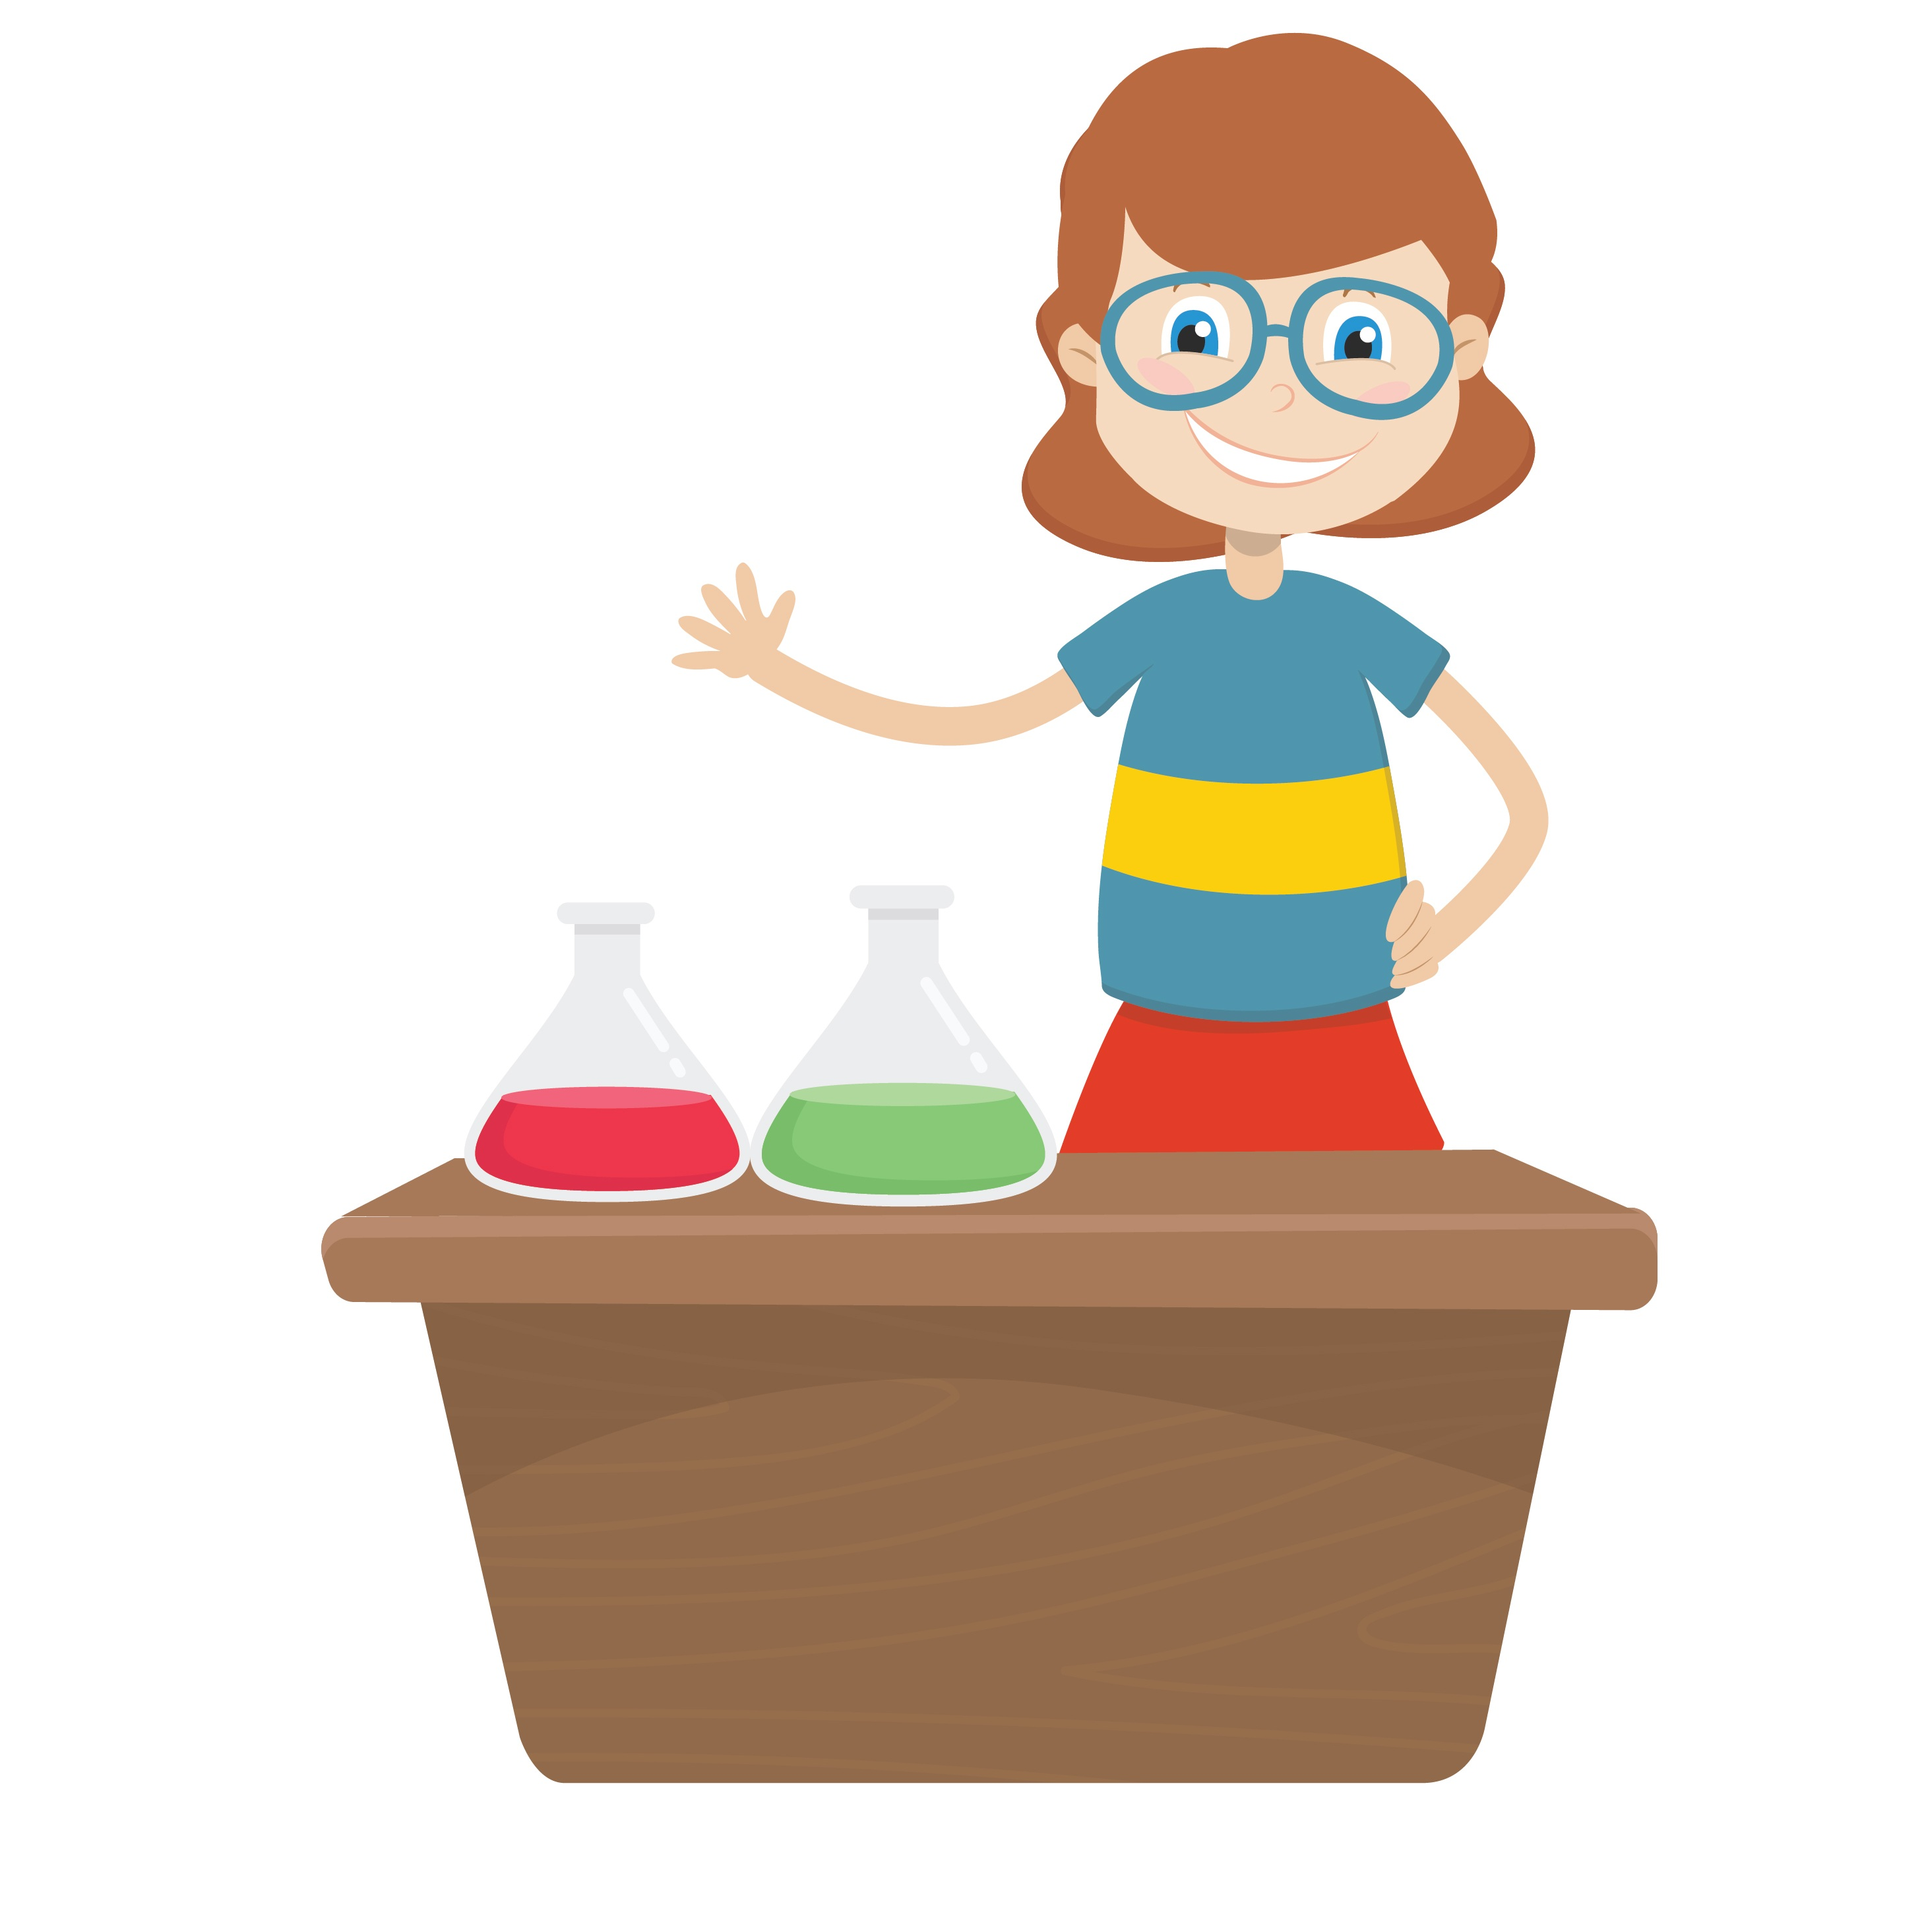
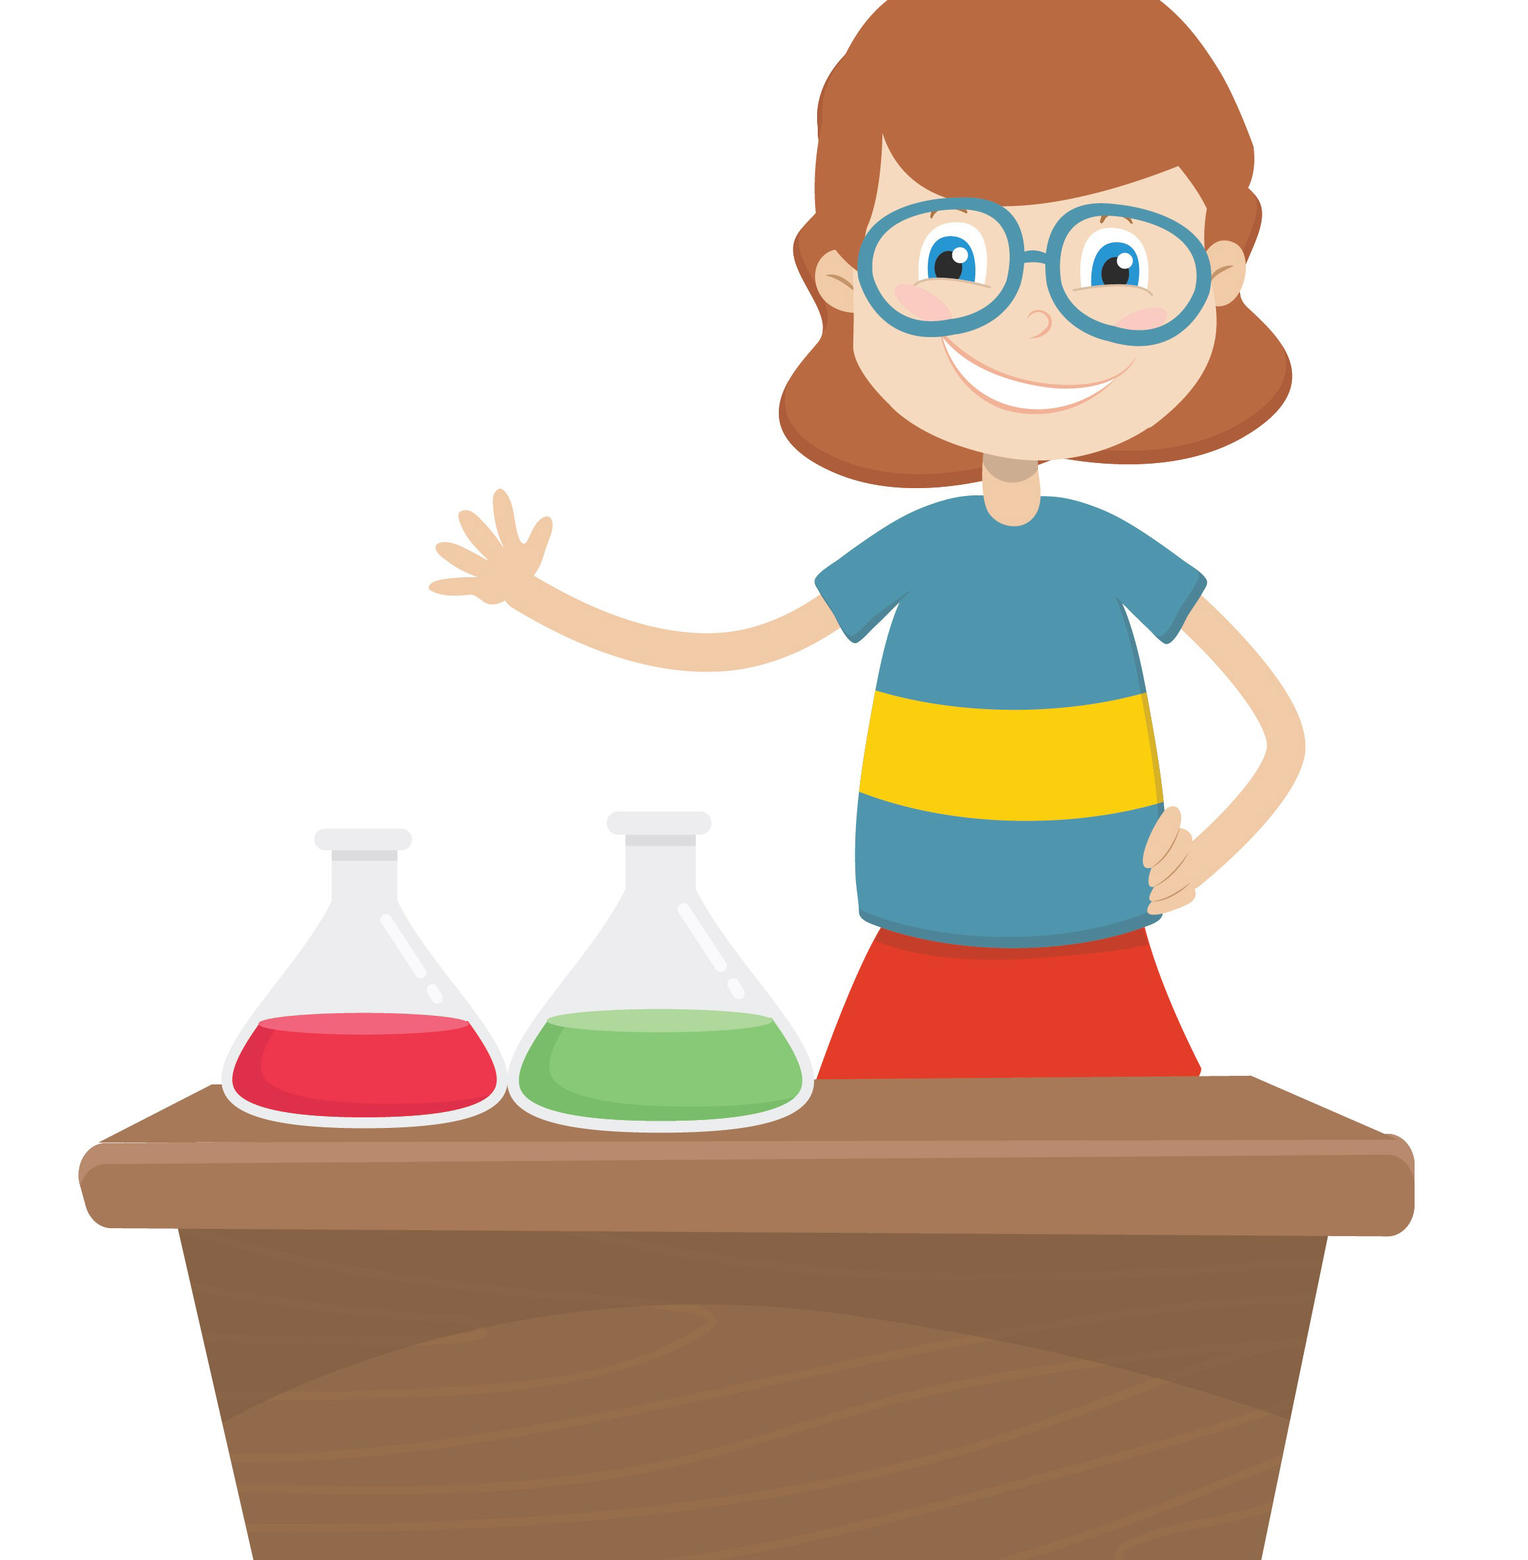
added visit page, working on small screen

diff --git a/visit.html b/visit.html
@@ -1,0 +1,130 @@
+<!DOCTYPE html>
+<html lang="en">
+
+<head>
+    <meta charset="UTF-8">
+    <meta http-equiv="X-UA-Compatible" content="IE=edge">
+    <meta name="viewport" content="width=device-width, initial-scale=1.0">
+    <title>Community Science Museum | Home</title>
+    <link rel="preconnect" href="https://fonts.googleapis.com">
+    <link rel="preconnect" href="https://fonts.gstatic.com" crossorigin>
+    <link
+        href="https://fonts.googleapis.com/css2?family=Inter:wght@400;900&family=Nanum+Pen+Script&family=Oswald:wght@400;500;600;700&family=Poppins:wght@300;400;500;600;700&family=Sedgwick+Ave&family=Source+Sans+Pro:wght@400;600;700&family=Ubuntu:ital,wght@0,300;0,400;0,500;1,400&display=swap"
+        rel="stylesheet">
+    <link href="style.css" rel="stylesheet" />
+    <script defer src="https://kit.fontawesome.com/94f62694c8.js" crossorigin="anonymous"></script>
+</head>
+<header>
+    <div class="top_header"><a href="index.html">community science museum</a>
+        <a href="#" class="tickets">tickets</a>
+    </div>
+    <div class="Bottom_header">
+        <a href="#" class="bottom_header_tickets">tickets</a>
+        <label for="hamburger-menu" class="hamburgerbars"><i class="fas fa-bars" class="hamburgerbars"></i></label>
+        <input type="checkbox" id="hamburger-menu" />
+        <nav>
+            <ul>
+                <li><a href="index.html">home</a></li>
+                <li><a href="#">exhibitions</a></li>
+                <li><a href="#">about</a></li>
+                <li><a href="#">support</a></li>
+                <li><a href="visit.html" class="active">visit</a></li>
+                <li><input type="search" id="site-search" placeholder="search" name="search">
+                </li>
+            </ul>
+        </nav>
+    </div>
+</header>
+
+<body>
+    <h1>visit community
+        science museum</h1>
+
+    <div>
+        <h2>admission</h2>
+        <p>the entrance is free for all.
+            there are guided tours of the museum that leave every hour. these tours are 70 NOK per person and include a
+            handy printed guide of the museum.
+            if you would like to organise a guided tour for your group of 6 or more people, please contact us to arrange
+            the
+            tour.
+        </p>
+        <a href="#" class="cta_button">contact</a>
+    </div>
+    <div>
+        <h2>hours</h2>
+        <p>monday: closed</p>
+        <p>tuesday: 10:00 – 16:00</p>
+        <p>wednesday: 10:00 – 16:00</p>
+        <p>thursday: 10:00 – 16:00</p>
+        <p>friday: 10:00 – 19:00</p>
+        <p>saturday: 9:00 – 16:00</p>
+        <p>Sunday: 9:00 – 13:00</p>
+    </div>
+
+    <div>
+        <h2>location</h2>
+        <p>The museum is located at Aker Brygge, Bryggeporten 2.
+            1344 Oslo.</p>
+        <a href="#" class="cta_button">view map</a>
+    </div>
+    <div>
+        <h2>accessibility</h2>
+        <p>the museum has wheelchair accessibility ramps. it also has audio guides and braille display signs for
+            the visually impaired.</p>
+    </div>
+    <h2>food and drinks</h2>
+
+    <p>there is a café attached to the museum where you can get light lunches, soft drinks, coffee, snacks and more.</p>
+    <a href="#" class="cta_button">view menu</a>
+    </div>
+    <div>
+
+        <h2>shop</h2>
+        <p>our shop offers a range of memorabilia from the museum as well as
+            great gifts and activity packs that allow you to continue
+            to explore science even after you’ve left the museum.
+        </p>
+        <a href="#" class="cta_button">go to shop</a>
+    </div>
+    </div>
+    <main>
+
+    </main>
+    <footer>
+        <section class="footer_top_bar">
+            <a href="#" class="">
+                <h2 class="Footer_top_bar_header">home to top </h2>
+            </a>
+        </section>
+        <section class="footer_content">
+            <div class="footer_section_one">
+                <h2>follow us on social media</h2>
+                <a href=" #" class="facebook"><i class="fab fa-facebook-square"></i></a>
+                <a href="#" class="twitter"><i class="fab fa-twitter-square"></i></a>
+                <a href="#" class="youtube"><i class="fab fa-youtube-square"></i></a>
+                <a href="#" class="linkdin"><i class="fab fa-linkedin"></i></a>
+                <h3>get our newsletter</h3>
+                <a href="#" class="cta_button">newsletter</a>
+            </div>
+            <div class="footer_section_two">
+                <h2>contact</h2>
+                <p><a href=" #" class="sponsors">mail: mail@csm</a></p>
+                <p><a href="#" class="sponsors">phone: 87654321</a></p>
+                <p>adress: bryggeporten 2</p>
+                <p>1344 oslo.</p>
+            </div>
+            <div class="footer_section_three">
+                <h3>sponsors and partners</h3>
+                <p>thanks to sponsors and partners</p>
+                <a href=" #" class="sponsors">green energy</a>
+                <a href=" #" class="sponsors">noroil</a>
+                <a href=" #" class="sponsors">tec inc</a>
+                <a href=" #" class="sponsors">horizon ltd</a>
+            </div>
+
+        </section>
+    </footer>
+</body>
+
+</html>

diff --git a/index.html b/index.html
@@ -5,7 +5,7 @@
     <meta charset="UTF-8">
     <meta http-equiv="X-UA-Compatible" content="IE=edge">
     <meta name="viewport" content="width=device-width, initial-scale=1.0">
-    <title>Community Science Museum | Home</title>
+    <title>Community Science Museum | visit</title>
     <link rel="preconnect" href="https://fonts.googleapis.com">
     <link rel="preconnect" href="https://fonts.gstatic.com" crossorigin>
     <link
@@ -28,13 +28,15 @@
                 <li><a href="#">exhibitions</a></li>
                 <li><a href="#">about</a></li>
                 <li><a href="#">support</a></li>
-                <li><a href="#">visit</a></li>
+                <li><a href="visit.html">visit</a></li>
                 <li><input type="search" id="site-search" placeholder="search" name="search">
                 </li>
             </ul>
         </nav>
     </div>
 </header>
+<h1>visit community
+    science museum</h1>
 
 <body>
     <main>
@@ -59,7 +61,7 @@
                     1500 pictures from 430 artist showing their art.</p>
             </div>
             <div class="home_grid_item">
-                <img src="image/reading-2762010_1280.jpg" class="Child_reading" alt="child reading a book">
+                <img src="image/reading-2762010_1280_v2.jpg" class="Child_reading" alt="child reading a book">
                 <h2>for kids</h2>
                 <p>Are you a young person looking to learn more about science? Come on down to our museum, there’s
                     plenty to
@@ -79,7 +81,7 @@
                 <a href="#" class="cta_button">message</a>
             </div>
             <div class="home_grid_item">
-                <img src="image/teacher-2816112.jpg" class="teacher_greating"
+                <img src="image/teacher-2816112_3.jpg" class="teacher_greating"
                     alt="cartoon woman with glasses greating. She has 2 botles of chemestry flask on a desk">
                 <h2>for teachers</h2>
                 <p class="paragraph_margin_bottom_before_cta">As a community-driven museum, we want to work with schools
@@ -90,7 +92,7 @@
                 <a href="#" class="cta_button">tour</a>
             </div>
             <div class="home_grid_item">
-                <img src="image/people-219985_1280.jpg" class="looking_in_a_microscope"
+                <img src="image/people-219985_1280_same_size.jpg" class="looking_in_a_microscope"
                     alt="a man is looking in a microscope">
                 <h2>researchers</h2>
                 <p>In our ecology section of the museum, we unpack the dangers we currently face including global
@@ -131,10 +133,9 @@
             </div>
             <div class="footer_section_two">
                 <h2>contact</h2>
-                <p><a href=" #">mail: mail@csm</a></p>
-                <p class="phone"><a href="#">phone: 87654321</a></p>
-                <p>adress:</p>
-                <p>bryggeporten 2</p>
+                <p><a href=" #" class="sponsors">mail: mail@csm</a></p>
+                <p><a href="#" class="sponsors">phone: 87654321</a></p>
+                <p>adress: bryggeporten 2</p>
                 <p>1344 oslo.</p>
             </div>
             <div class="footer_section_three">

diff --git a/style.css b/style.css
@@ -15,6 +15,10 @@ p {
     margin-bottom: 10px;
 }
 
+p::first-letter {
+    text-transform: uppercase;
+}
+
 a {
     color: black;
     text-decoration: none;
@@ -152,7 +156,7 @@ nav li {
 /* Home page*/
 
 .home_grid_container {
-    /*grid-template-columns: repeat(3, 1fr);*/
+    /*grid-template-columns: repeat(2, 1fr);*/
     gap: 1.5rem;
     padding: 10px;
     margin: auto;
@@ -160,7 +164,9 @@ nav li {
     display: grid;
 }
 
-
+.home_grid_item img {
+    text-align: center;
+}
 
 .home_grid_item:nth-child(2),
 .home_grid_item:nth-child(3),
@@ -190,8 +196,9 @@ nav li {
 .holding_a_plant {
     margin-bottom: 15px;
     width: 100%;
-    max-height: 200px;
+    max-height: 300px;
     object-fit: cover;
+
 }
 
 .background_image {
@@ -237,7 +244,6 @@ footer {
     background-color: var(--bottom_header_color);
     height: 832px;
     margin-top: 30px;
-
 }
 
 .footer_section_three,
@@ -379,6 +385,10 @@ footer {
 
     .home_grid_item:nth-child(6) p {
         max-width: 300px;
+    }
+
+    .teacher_greating {
+        background-position-x: 10px;
     }
 
     footer {
